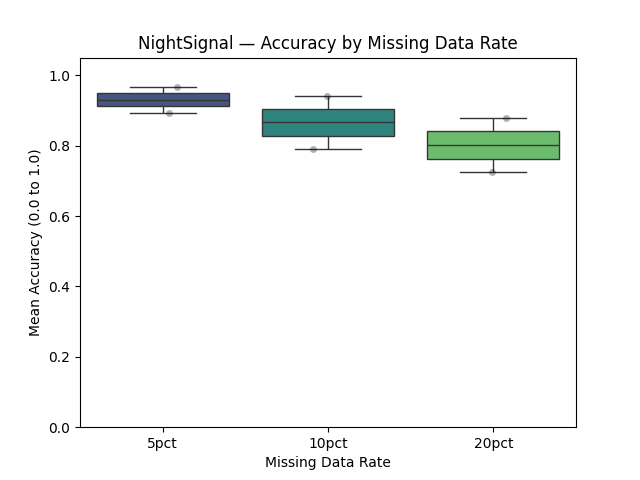
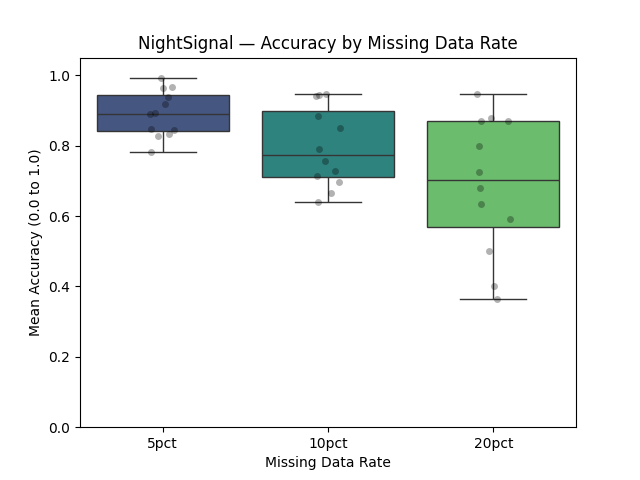
mecanismos e resultados implementados

Changed region(s): [[0.6562, 0.1875, 0.875, 0.625], [0.4062, 0.1875, 0.625, 0.4375], [0.125, 0.1562, 0.375, 0.3438]]

diff --git a/overall_results.py b/overall_results.py
@@ -1,0 +1,215 @@
+import json
+from pathlib import Path
+
+import matplotlib.pyplot as plt
+import pandas as pd
+import seaborn as sns
+
+
+RESULTS_DIR = Path("results")
+
+
+def load_results(json_file: Path) -> dict[str, str]:
+    with open(json_file, "r", encoding="utf-8") as file:
+        data = json.load(file)
+
+    return {
+        " ".join(entry["date"].split()): entry["val"]
+        for entry in data["nightsignal"]
+    }
+
+
+def empty_matrix() -> list[list[int]]:
+    return [[0 for _ in range(3)] for _ in range(3)]
+
+
+def add_matrices(left: list[list[int]], right: list[list[int]]) -> list[list[int]]:
+    return [[left[i][j] + right[i][j] for j in range(3)] for i in range(3)]
+
+
+def matrix_from_results(original: dict[str, str], missing: dict[str, str]) -> list[list[int]]:
+    matrix = empty_matrix()
+    dates = set(original.keys()) & set(missing.keys())
+
+    for date in dates:
+        original_value = int(original[date])
+        missing_value = int(missing[date])
+        matrix[original_value][missing_value] += 1
+
+    return matrix
+
+
+def metrics_from_matrix(matrix: list[list[int]]) -> dict[str, float]:
+    safe_div = lambda num, den: num / den if den else 0
+
+    return {
+        "precision_warning": safe_div(matrix[1][1], sum(matrix[1][j] for j in range(3))),
+        "precision_alert": safe_div(matrix[2][2], sum(matrix[2][j] for j in range(3))),
+        "recall_warning": safe_div(matrix[1][1], sum(matrix[i][1] for i in range(3))),
+        "recall_alert": safe_div(matrix[2][2], sum(matrix[i][2] for i in range(3))),
+        "recall_both": safe_div(matrix[1][0] + matrix[2][0], matrix[1][1] + matrix[2][2]),
+        "accuracy": safe_div(
+            matrix[1][1] + matrix[2][2],
+            sum(matrix[i][j] for i in range(3) for j in range(3)) - matrix[0][0],
+        ),
+    }
+
+
+def find_run_jsons(patient_folder: Path, mechanism: str, rate: str) -> list[tuple[str, Path]]:
+    rate_folder = patient_folder / "missing" / mechanism / rate
+    if not rate_folder.exists():
+        return []
+
+    direct_json = rate_folder / f"{patient_folder.name}_signals.json"
+    if direct_json.exists():
+        return [("", direct_json)]
+
+    seed_folders = sorted(
+        (folder for folder in rate_folder.iterdir() if folder.is_dir()),
+        key=lambda folder: int(folder.name),
+    )
+    return [
+        (seed_folder.name, seed_folder / f"{patient_folder.name}_signals.json")
+        for seed_folder in seed_folders
+    ]
+
+
+def save_heatmap(matrix: list[list[int]], title: str, output_path: Path) -> None:
+    labels = ["Green (0)", "Yellow (1)", "Red (2)"]
+    df = pd.DataFrame(matrix, index=labels, columns=labels)
+
+    output_path.parent.mkdir(parents=True, exist_ok=True)
+    fig, ax = plt.subplots(figsize=(6, 5))
+    sns.heatmap(df, annot=True, fmt="d", cmap="Blues", cbar=True, ax=ax)
+    ax.set_title(title)
+    ax.set_xlabel("With missing data")
+    ax.set_ylabel("Original")
+    plt.tight_layout()
+    plt.savefig(output_path, dpi=300, bbox_inches="tight")
+    plt.close(fig)
+
+
+def main() -> None:
+    if not RESULTS_DIR.exists():
+        print(f"[ERROR] Folder '{RESULTS_DIR}' not found.")
+        return
+
+    patient_rows = []
+
+    patient_folders = sorted(folder for folder in RESULTS_DIR.iterdir() if folder.is_dir())
+    if not patient_folders:
+        print(f"[WARNING] No patient folders found in {RESULTS_DIR}/")
+        return
+
+    for patient_folder in patient_folders:
+        patient_id = patient_folder.name
+        original_json = patient_folder / f"{patient_id}_signals.json"
+
+        if not original_json.exists():
+            continue
+
+        original = load_results(original_json)
+        missing_root = patient_folder / "missing"
+        if not missing_root.exists():
+            continue
+
+        for mechanism_folder in sorted(folder for folder in missing_root.iterdir() if folder.is_dir()):
+            mechanism = mechanism_folder.name
+
+            for rate_folder in sorted(
+                (folder for folder in mechanism_folder.iterdir() if folder.is_dir()),
+                key=lambda folder: int(folder.name.replace("pct", "")),
+            ):
+                rate = rate_folder.name
+                runs = find_run_jsons(patient_folder, mechanism, rate)
+
+                if not runs:
+                    continue
+
+                patient_matrix = empty_matrix()
+                run_count = 0
+
+                for seed, json_file in runs:
+                    if not json_file.exists():
+                        continue
+
+                    missing = load_results(json_file)
+                    run_matrix = matrix_from_results(original, missing)
+                    patient_matrix = add_matrices(patient_matrix, run_matrix)
+                    run_count += 1
+
+                if run_count == 0:
+                    continue
+
+                metrics = metrics_from_matrix(patient_matrix)
+                
+                # Save heatmap per patient
+                heatmap_dir = RESULTS_DIR / "heatmaps_by_patient" / patient_id
+                heatmap_path = heatmap_dir / f"{mechanism}_{rate}.png"
+                save_heatmap(patient_matrix, f"Patient {patient_id} - {mechanism} - {rate}", heatmap_path)
+                
+                patient_rows.append(
+                    {
+                        "patient": patient_id,
+                        "mechanism": mechanism,
+                        "rate": rate,
+                        "n_runs": run_count,
+                        "green_green": patient_matrix[0][0],
+                        "green_yellow": patient_matrix[0][1],
+                        "green_red": patient_matrix[0][2],
+                        "yellow_green": patient_matrix[1][0],
+                        "yellow_yellow": patient_matrix[1][1],
+                        "yellow_red": patient_matrix[1][2],
+                        "red_green": patient_matrix[2][0],
+                        "red_yellow": patient_matrix[2][1],
+                        "red_red": patient_matrix[2][2],
+                        **metrics,
+                    }
+                )
+
+    if not patient_rows:
+        print("[WARNING] No matrices were generated.")
+        return
+
+    patient_df = pd.DataFrame(patient_rows)
+    patient_df["_rate_num"] = patient_df["rate"].str.replace("pct", "", regex=False).astype(int)
+    patient_df = patient_df.sort_values(["mechanism", "_rate_num", "patient"]).drop(columns=["_rate_num"])
+    patient_df.to_csv(RESULTS_DIR / "confusion_matrices_by_patient.csv", index=False)
+
+    # Calculate mean and std of metrics by mechanism and rate from patient-level values
+    metric_cols = [
+        "accuracy",
+        "precision_warning",
+        "precision_alert",
+        "recall_warning",
+        "recall_alert",
+        "recall_both",
+    ]
+
+    summary_rows = []
+    for (mechanism, rate), group in patient_df.groupby(["mechanism", "rate"], sort=False):
+        row = {
+            "mechanism": mechanism,
+            "rate": rate,
+            "n_patients": int(group["patient"].nunique()),
+        }
+
+        # Add mean and std of each metric computed from patient-level values
+        for metric_name in metric_cols:
+            row[f"{metric_name}_mean"] = float(group[metric_name].mean())
+            row[f"{metric_name}_std"] = float(group[metric_name].std(ddof=1)) if len(group) > 1 else 0.0
+
+        summary_rows.append(row)
+
+    summary_df = pd.DataFrame(summary_rows)
+    summary_df["_rate_num"] = summary_df["rate"].str.replace("pct", "", regex=False).astype(int)
+    summary_df = summary_df.sort_values(["mechanism", "_rate_num"]).drop(columns=["_rate_num"])
+    summary_df.to_csv(RESULTS_DIR / "confusion_matrices_summary_by_mechanism_rate.csv", index=False)
+
+    print(f"Saved per-patient matrices to {RESULTS_DIR / 'confusion_matrices_by_patient.csv'}")
+    print(f"Saved per-patient heatmaps to {RESULTS_DIR / 'heatmaps_by_patient/'}")
+    print(f"Saved summary (mean/std by mechanism and rate) to {RESULTS_DIR / 'confusion_matrices_summary_by_mechanism_rate.csv'}")
+
+
+if __name__ == "__main__":
+    main()

diff --git a/plot_summary_metrics.py b/plot_summary_metrics.py
@@ -1,0 +1,87 @@
+from pathlib import Path
+
+import matplotlib.pyplot as plt
+import pandas as pd
+import seaborn as sns
+
+
+RESULTS_DIR = Path("results")
+SUMMARY_CSV = RESULTS_DIR / "confusion_matrices_summary_by_mechanism_rate.csv"
+OUTPUT_DIR = RESULTS_DIR / "summary_metric_plots"
+
+
+def load_summary(summary_csv: Path) -> pd.DataFrame:
+    if not summary_csv.exists():
+        raise FileNotFoundError(f"Summary CSV not found: {summary_csv}")
+
+    df = pd.read_csv(summary_csv)
+    df["rate_num"] = df["rate"].str.replace("pct", "", regex=False).astype(int)
+    return df
+
+
+def metric_columns(df: pd.DataFrame) -> list[str]:
+    metrics = []
+    for column in df.columns:
+        if not column.endswith("_mean"):
+            continue
+        metric_name = column.removesuffix("_mean")
+        if metric_name.endswith("both"):
+            continue
+        if metric_name in {"n_patients", "rate_num"}:
+            continue
+        metrics.append(metric_name)
+    return metrics
+
+
+def plot_metric(df: pd.DataFrame, metric: str) -> None:
+    fig, ax = plt.subplots(figsize=(9, 5.5))
+
+    palette = {"MCAR": "#1f77b4", "MAR": "#ff7f0e", "MNAR": "#2ca02c"}
+    markers = {"MCAR": "o", "MAR": "s", "MNAR": "^"}
+
+    for mechanism in sorted(df["mechanism"].unique()):
+        mech_data = df[df["mechanism"] == mechanism].sort_values("rate_num")
+
+        if mech_data.empty:
+            continue
+
+        ax.errorbar(
+            mech_data["rate_num"],
+            mech_data[f"{metric}_mean"],
+            yerr=mech_data[f"{metric}_std"],
+            label=mechanism,
+            color=palette.get(mechanism, None),
+            marker=markers.get(mechanism, "o"),
+            linewidth=2,
+            markersize=7,
+            capsize=4,
+            capthick=1.5,
+            alpha=0.85,
+        )
+
+    ax.set_title(f"{metric.replace('_', ' ').title()} by Mechanism and Missing Rate")
+    ax.set_xlabel("Missing Data Rate (%)")
+    ax.set_ylabel(metric.replace("_", " ").title())
+    ax.set_xticks(sorted(df["rate_num"].unique()))
+    ax.set_ylim(0, 1.05)
+    ax.grid(True, alpha=0.25, linestyle="--")
+    ax.legend(loc="best")
+
+    OUTPUT_DIR.mkdir(parents=True, exist_ok=True)
+    output_path = OUTPUT_DIR / f"{metric}.png"
+    plt.tight_layout()
+    plt.savefig(output_path, dpi=300, bbox_inches="tight")
+    plt.close(fig)
+
+
+def main() -> None:
+    df = load_summary(SUMMARY_CSV)
+    sns.set_theme(style="whitegrid")
+
+    for metric in metric_columns(df):
+        plot_metric(df, metric)
+        print(f"Saved plot for {metric} -> {OUTPUT_DIR / f'{metric}.png'}")
+
+
+if __name__ == "__main__":
+    main()

diff --git a/results.py b/results.py
@@ -231,15 +231,6 @@ def main():
     if not RESULTS_DIR.exists():
         print(f"[ERROR] Folder '{RESULTS_DIR}' not found.")
         return
- 
-
-    # with open(RESULTS_DIR / "metrics.csv", 'w', newline='', encoding='utf-8') as file:
-    #     writer = csv.writer(file)
-    #     writer.writerow([
-    #         "patient", "mechanism", "rate", "accuracy", 
-    #         "precision_warning", "precision_alert", 
-    #         "recall_warning", "recall_alert", "recall_both"
-    #     ])
 
     metrics_list = []
     
@@ -327,15 +318,6 @@ def main():
                         format_report(patient_id, mechanism_report, rate, matriz, mc)
                     )
 
-                # # salva métricas no CSV
-                # with open(RESULTS_DIR / "metrics.csv", 'a', newline='', encoding='utf-8') as file:
-                #     writer = csv.writer(file)
-                #     writer.writerow([
-                #         patient_id, mechanism, rate, 
-                #         format(mc['accuracy']), 
-                #         format(mc['precision_warning']), format(mc['precision_alert']), 
-                #         format(mc['recall_warning']), format(mc['recall_alert']), format(mc['recall_both'])
-                #     ])
 
                     metrics_list.append({
                         "patient": patient_id,

diff --git a/generate_missing.py b/generate_missing.py
@@ -53,9 +53,11 @@ def mnar(df: pd.DataFrame, rate: int, seed: int) -> pd.DataFrame:
     # X = df_out[[HR_COLUMN]].astype(float)
     y = np.zeros(len(X))
 
-    generator = uMNAR(X=X, y=y, missing_rate=rate, x_miss=HR_COLUMN)
+    # threshold=1.0 + deterministic=True faz o gerador escolher apenas a cauda superior
+    # da ordenação de HR, ou seja, os maiores batimentos dentro da janela noturna.
+    generator = uMNAR(X=X, y=y, threshold=1.0, missing_rate=rate, x_miss=HR_COLUMN)
 
-    X_with_missing = generator.run(deterministic=False)
+    X_with_missing = generator.run(deterministic=True)
 
     #adicionando a coluna de Steps e Batimentos ao final
     df_out["HR_MISSING"] = df[HR_COLUMN].astype(int)  # cópia da coluna original para referência